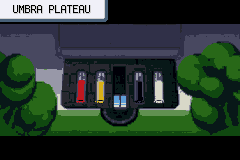
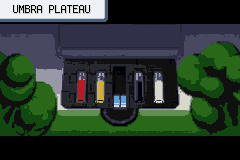
T-456: the REVIEW BOARD's name card BUILT (engine 64d79bbf4); seed C with the hall neutral
gbapreviews: `neutral` gives up median cut's darkest green-cast colour for a neutral near-black (the hall's front
read faintly green; the trees lose that shade); review_board in LANDMARK_APPROVED; --write makes a NEW card's folder
and its -num_tiles rule (new_rule, in name order), and skips a new card only while the engine has no entry. The
draft requantized from the same painting (316 tiles). Fixed: light_palettes was handed the van function since
e8bccc6c, not the vanilla screen.

diff --git a/tools/gbapreviews.py b/tools/gbapreviews.py
@@ -592,7 +592,8 @@ MOTIFS = dict(lights=motif_lights, courses=motif_courses, cable=motif_cable, col
 #  engine until the user approves a card (LANDMARK_APPROVED).
 LANDMARK_APPROVED = {"silph_co", "pokemon_tower", "pokemon_mansion",   # the user, 2026-10-26: build all three as drawn
                      "rocket_hideout",                                 # the user, 2026-10-26: CORPUS HIDEOUT as drawn
-                     "rocket_warehouse"}                               # the user, 2026-10-26: CORPUS WAREHOUSE, candidate B
+                     "rocket_warehouse",                               # the user, 2026-10-26: CORPUS WAREHOUSE, candidate B
+                     "review_board"}                                   # the user, 2026-10-26 (T-456): seed C, the hall neutral
 LANDMARK_DRAWINGS = os.path.join(ROOT, "gfx", "drafts", "landmarks")
 GREYS = [(40, 40, 46), (72, 72, 80), (108, 108, 116), (148, 148, 156), (188, 188, 194), (222, 222, 226)]
 LANDMARK = {
@@ -666,8 +667,8 @@ LANDMARK = {
     #  and laid in seen from below. The four vessels are the only colour: after the painting the fluids and the kept
     #  door are laid back crisp (post_vessels), and "force" gives the red, the yellow, the pale, the door's blue, the
     #  black fluid and the hall's own stone (46,44,54) an index each -- without the last two, median cut shared the
-    #  trees' dark greens with the hall and tinted it, and vessel III went green. DRAFT: not in LANDMARK_APPROVED,
-    #  and the engine has no entry to write it into until the plan in T-456 is applied (--write skips a "new" card).
+    #  trees' dark greens with the hall and tinted it, and vessel III went green. BUILT (engine 64d79bbf4): the
+    #  engine has its entry now (MPS_INDIGO_PLATEAU); --write skips a "new" card only while the engine has none.
     "review_board": dict(
         source="review_board", title="the REVIEW BOARD", new=True, mapsec="MAPSEC_INDIGO_PLATEAU",
         mps="MPS_INDIGO_PLATEAU", type="MPS_TYPE_CAVE", banner_from="pokemon_tower", drawn_scene="plateau",
@@ -677,6 +678,10 @@ LANDMARK = {
         grass=[(46, 78, 38), (74, 110, 50), (104, 140, 66)],
         seed=4475, denoise=0.45, post=["vessels"],     # seeds 4473 and 4474 on sheet t456_draft; 4475 picked
         force=[(192, 28, 36), (222, 178, 30), (218, 220, 206), (98, 164, 222), (6, 4, 8), (46, 44, 54)],
+        #  the user (2026-10-26, building seed C): keep the hall neutral -- its front shared the trees' darkest shade
+        #  (a teal-green near-black) and read faintly green; that shade is given up for a neutral near-black, and the
+        #  trees' deepest shadows take it too
+        neutral=(18, 18, 22),
         prompt="looking up at a long low hall of near-black stone under one heavy flat stone slab that overhangs it "
                "like a judges' bench, four small lit alcoves in its front each holding a tall glass vessel of "
                "fluid, red, yellow, black, pale, left to right, a dark doorway in the middle with a small blue door, "
@@ -1217,15 +1222,21 @@ def keep_accents(pic, q, n=15, rounds=3):
     return q
 
 
-def reduce(pic, vpal, accents=False, force=()):
+def reduce(pic, vpal, accents=False, force=(), neutral=None):
     """15 colours into palette 13's indices 1..15 (index 0 vanilla's: BG0 colour 0 is transparent); a painting keeps
     its accents (keep_accents); a colour in force (a landmark's, too few pixels for keep_accents to see: CORPUS's red
-    band) takes an index of its own"""
+    band) takes an index of its own; neutral (T-456) gives up the darkest green-cast colour median cut chose for this
+    grey, so a dark front that shared the trees' deepest shade is neutral and the trees lose that shade"""
     q = pic.quantize(colors=15 - len(force), method=Image.Quantize.MEDIANCUT, dither=Image.Dither.NONE)
     if accents:
         q = keep_accents(pic, q, n=15 - len(force))
-    if force:
-        q = _fixed(pic, [tuple(q.getpalette()[i * 3:i * 3 + 3]) for i in range(15 - len(force))] + list(force))
+    if force or neutral:
+        cols = [tuple(q.getpalette()[i * 3:i * 3 + 3]) for i in range(15 - len(force))]
+        if neutral:
+            green = [c for c in cols if c[1] > c[0] + 8]
+            if green:
+                cols[cols.index(min(green, key=sum))] = tuple(neutral)
+        q = _fixed(pic, cols + list(force))
     qp = (q.getpalette()[:45] + [0] * 45)[:45]                      # a cave of fewer colours leaves the rest unused
     cols = [tuple(qp[i * 3:i * 3 + 3]) for i in range(15)]
     #  to the GBA's 5 bits, as the palette will hold them
@@ -1243,7 +1254,8 @@ def build(folder, sec):
     pic, where = picture(folder, sec)
     if pic is None:
         return None
-    idx, pal13 = reduce(pic, vpal, accents=where.startswith("painted"), force=LANDMARK.get(folder, {}).get("force", ()))
+    c = LANDMARK.get(folder, {})
+    idx, pal13 = reduce(pic, vpal, accents=where.startswith("painted"), force=c.get("force", ()), neutral=c.get("neutral"))
     tiles, seen, m, tpal = [], {}, [0] * 640, []
 
     def add(t, p=14):
@@ -1318,6 +1330,21 @@ def sheet(rows, path, title):
 
 
 # ================================================================== main
+def new_rule(rules, folder, n):
+    """graphics_file_rules.mk with a NEW card's -num_tiles rule (T-456), laid in among the others in name order; a
+    card that has one is left as it is"""
+    if "$(MAPPREVIEWGFXDIR)/%s/tiles.4bpp:" % folder in rules:
+        return rules
+    rule = "$(MAPPREVIEWGFXDIR)/%s/tiles.4bpp: %%.4bpp: %%.png\n\t$(GFX) $< $@ -num_tiles %d -Wnum_tiles\n\n" % (folder, n)
+    at = [(mm.group(1), mm.start()) for mm in re.finditer(r"^\$\(MAPPREVIEWGFXDIR\)/(\w+)/tiles\.4bpp:", rules, re.M)]
+    after = [i for f, i in at if f > folder]
+    if after:
+        return rules[:after[0]] + rule + rules[after[0]:]
+    last = at[-1][1]
+    end = rules.index("\n\n", last) + 2
+    return rules[:end] + rule + rules[end:]
+
+
 def entry(by_folder, folder):
     """(MPS key, MAPSEC, type) of a card: sMapPreviewScreenData's, or a NEW card's own (T-456)"""
     c = LANDMARK.get(folder, {})
@@ -1372,9 +1399,8 @@ def main():
     for folder in (LANDMARK if A.landmarks else BATCH_E):
         if A.only and folder not in A.only:
             continue
-        if A.write and LANDMARK.get(folder, {}).get("new"):
-            print("  %-17s a NEW card: the engine has no sMapPreviewScreenData entry for it yet (T-456's plan): "
-                  "not written" % folder)
+        if A.write and LANDMARK.get(folder, {}).get("new") and folder not in by_folder and not A.draft:
+            print("  %-17s a NEW card: the engine has no sMapPreviewScreenData entry for it yet: not written" % folder)
             continue
         if A.landmarks and A.write and folder not in LANDMARK_APPROVED and not A.draft:
             print("  %-17s not approved (LANDMARK_APPROVED): not written" % folder)
@@ -1398,7 +1424,7 @@ def main():
                  "tiles: %d (vanilla %d; must stay < 450)" % (len(tiles), len(vt)),
                  "palette 13: 15 colours + vanilla's 0", "palette 14, letterbox, banner: vanilla's"]
         painted = where.startswith("painted")
-        lights = light_palettes(pal[:16], dra, van) if folder == "altering_cave" and painted else None
+        lights = light_palettes(pal[:16], dra, van_) if folder == "altering_cave" and painted else None
         if lights:
             notes += ["", "OTHER CAVE: one set of tiles, four", "palettes 13 (teal, AMBER, CHRYSOPRASE,",
                       "ROSE QUARTZ) -- the rows below. The", "engine lays the coming visit's light",
@@ -1424,11 +1450,12 @@ def main():
                       open(os.path.join(d, "draft.json"), "w"), indent=1)
         if A.write and (not A.landmarks or folder in LANDMARK_APPROVED):
             d = os.path.join(MPS, folder)
+            os.makedirs(d, exist_ok=True)                                # a NEW card's folder (T-456)
             tiles_png(png, pal, os.path.join(d, "tiles.png"))
             open(os.path.join(d, "tilemap.bin"), "wb").write(struct.pack("<640H", *m))
             for n, lp in list(enumerate(lights or []))[1:]:          # OTHER CAVE: map_preview_screen.c INCBINs these
                 write_pal(lp, os.path.join(d, "light%d.pal" % n))
-            rules = open(RULES).read()
+            rules = new_rule(open(RULES).read(), folder, len(tiles))
             rules = re.sub(r"(\$\(MAPPREVIEWGFXDIR\)/%s/tiles\.4bpp: %%\.4bpp: %%\.png\n\t\$\(GFX\) \$< \$@ -num_tiles )\d+"
                            % folder, lambda mm: mm.group(1) + str(len(tiles)), rules)
             open(RULES, "w").write(rules)

diff --git a/docs/TODO.md b/docs/TODO.md
@@ -339,7 +339,7 @@ was one `git log -S` away.*
 | **T-447** | **The landmarks get art of their own, drawn from the story** (*the user, 2026-10-24: "especially for key buildings though (like scorn solutions) we want to make the art our own, not just tweak, so we should look at the story and infer from that"*). T-438's passes keep vanilla's silhouettes and retint them; the buildings the story turns on (SCORN SOLUTIONS, CORPUS's tower, DAEMON TOWER, the MANSION, CRYSTAL's lab, the BENCHMARKs, the GAME CORNER, ERRATA, KEEPALIVE PLANT, the REVIEW BOARD, USER TOWER ...) need designs inferred from the bible. **Job**: a landmarks plan (story basis + a 512 concept per building, footprint and palette limits) for the user's approval, then redraw each inside its footprint; landmarks are held out of T-438's leftover batches. **Planned (DAEMONS `6db593e4`; docs/private/plan-landmarks-2026-10-24.md). The user (2026-10-24): SCORN SOLUTIONS drawn as CRYSTAL's lab's sister, then rebranded (gold leaf, blinds, the roof ruled like a form, an intake slot; the only red the new owner's); the MANSION redesigned in its 7x4 footprint (replaces batch H's ash roof); CORPUS's floor plate seen through a glass lobby, no words; built two at a time, a sheet and a yes before each pair -- SCORN SOLUTIONS + the MANSION first, then CORPUS's tower. Still to ask, with their pairs: DAEMON TOWER, REVIEW BOARD, USER TOWER, THE ANNEX.* **SCORN SOLUTIONS + the MANSION drafted (DAEMONS `ee34966e`, tools/gbalandmarks.py; 91 of 117 tiles). The user (2026-10-24): SCORN's door a plain steel door with the procedure's red light; the roof form as fewer, bigger boxes so the tick reads at 1x; the MANSION one big stain rising from the cave-in and the racks curved like a rib cage; revise, show the sheet once more at 1x, then build on a yes.* **Revised (DAEMONS `e559d4eb`); the user (2026-10-24): build it.** **The first pair BUILT (engine `cf4454491`, 2026-10-24)**: `gbalandmarks.py --write --approved` (blocks 134->192, rows 10 and 11, byte-identical to the draft) then `gbadoors.py --write --approved` (the lab door's frames from the steel door, sDoorAnimPalettes_CinnabarLab 3 -> 10); a second write of each a no-op (gbalandmarks' census now ignores the unused RS Safari layouts' block ids past vanilla's count, which read as its own blocks after a write and made the rerun refuse); gbatowns, gbaislandsigns, gbasandbar and gbafounder write nothing new. Walked in the theatre: both buildings in game, SCORN's steel door swinging open as the player walks in, the MANSION's door into 1F. Next: CORPUS's tower. **The user (2026-10-24, evening): DAEMON TOWER dots and niches (dense dots at the foot, sparse at the top; seven bands of niches); USER TOWER progress bars (each floor a band with a teal bar); THE ANNEX a flat survey disc (no collision change). The REVIEW BOARD's colour is still to ask.* **Pair 2 drafted (DAEMONS `84ae38f3`) as flat slabs; the user (2026-10-24): redraw both with 3/4 depth (side faces, an inset silhouette with ground at the sides, rounded/stepped edges); DAEMON TOWER's niches arched into the dots (no shelves) and its top a dotted dome; CORPUS's door redrawn so the plate continues through its glass (new silph_co door frames).* **Pair 2 redrawn with depth (DAEMONS `a219855f`); the user (2026-10-25): build both. The REVIEW BOARD's only colour: four vessels of fluid (red, yellow, black, pale) in seat order I-IV.* **Pair 2 BUILT (engine `27e785a73`, 2026-10-25)**: `gbalandmarks.py --write --approved` (corpus_tower, daemon_tower added to APPROVED: saffron_city row 9, 55 tiles, blocks 276->282, the tower and the crossings' copy; lavender_town row 7, 82 tiles, LavenderTown rows 0..6 and ROUTE 10 rows 72..79) then `gbadoors.py --write --approved` (DOORS["silph_co"]["redrawn"] = CORPUS_DOOR without its block: silph_co.png from the glass door, sDoorAnimPalettes_SilphCo 3 -> 9); gbadoors' report exits 0, a second write of both a no-op, gbatowns redraws nothing, every PNG 4-bit 16-colour. Walked in the theatre (`tools/routes/landmarks-2.json`, goto, holds and shots): CORPUS's tower at 1x, its glass door (the plate through it) sliding open as the player walks in, into SilphCo_1F; DAEMON TOWER grey and in colour (sDaemonsHalftoneInColour poked), its dotted dome on ROUTE 10, walked into PokemonTower_1F. Found: the map-name cards on entering still show vanilla's SILPH CO. and POKEMON TOWER pictures. Next: ask DAEMON TOWER's neighbours -- the REVIEW BOARD (its colour decided), USER TOWER, THE ANNEX.* **Pair 3 drafted (DAEMONS `64a0205c`); the user (2026-10-25): build with tweaks -- the REVIEW BOARD's pale porch redrawn in dark stone (the shared door kept); four faint seat places inlaid along its slab; ERRATA's erratum (struck line, red caret) moved onto the big slate roof where it reads at 1x (an echo on the pediment if tiles allow); a quick 1x check, then build.* **Tweaked (DAEMONS `9283f477`); the user (2026-10-25): build pair 3 -- and scramble ERRATA's chalk line so no word can be picked out (at 3x it read 'why'), same tiles.* **Pair 3 BUILT (engine `2332f9e44`, 2026-10-26)**: *ERRATA's chalk first scrambled -- each word's span kept in place and width, drawn as one pen path of chalk (ERRATA_SCRAWL, steps of at most two, three pen lifts above the x-height) instead of letter-like shapes, so no word reads at 1x or 3x; only 8 tiles' pixels changed, still 123 of 123 slots. Then `gbalandmarks.py --write --approved` (review_board, errata added to APPROVED): UMBRA rows 7 and 8, 112 tiles, blocks 176->197, -num_tiles 247->300; SLATE row 12, 123 tiles (0 to spare), blocks 146->186, -num_tiles 312->376. Byte-identical to the draft; a second write a no-op; every PNG 4-bit 16-colour; pairs 1 and 2 untouched; gbadoors: the engine matches its write exactly (both doors kept, no frames); gbatowns writes nothing new (its census now counts ERRATA as ours: SLATE 12% -> 3% vanilla). firered_debug built (exit 0). Route `tools/routes/landmarks-3.json` (goto and shots, walking into each door) written and checked, not yet played: the theatre did not answer.* |
 | ~~**T-446**~~ | ~~**Four elevator doors would redraw lit if gbadoors ran with --approved**~~ (*found 2026-10-24 by the batch F build*): `gbadoors.py --write --approved` would redraw the HIDEOUT, SILPH and TRAINER TOWER lobby and roof elevator doors with the cab light instead of dark -- old drift (probably batch D, engine 80f4553d8), present on a clean HEAD; check_generators misses it because it runs gbadoors without --approved. The game is unchanged (the four files were reverted). **Job**: find which side is right, fix the tool or the files, and record or clear the drift; make check_generators run gbadoors' approved set too. **Also (2026-10-24, the landmark build): `gbadoors --write --approved` would now redraw `safari_zone.png` (420 pixels re-indexed after batch H moved LURID's row 9), so the SAFARI door's opening frames may not match its new closed colours -- check in the theatre and fix with the elevator doors.* | ***Closed (engine `4c307ea22`; the tool in this commit).*** **The files were right; the tool had drifted.** *Filmed in the theatre (all five opening, or the lobby lift opening as you leave it -- its counter keeps you out): no jump outside the leaf, a slate room behind each. The tool picks the room as the row's DARKEST colour, and later palette passes moved which entry that is -- batch D's timber brown (building row 2, entry 9) and batch H's LURID magenta (fuchsia row 9, entry 10) went darker than the approved slate (entry 1), so a write would have swapped room and floor line. Not lit: brown and magenta.* **Fix**: `DOORS` pins those five rooms by palette index (`room=(void, floor, sill)`, the entries batch A drew), so a recolour moves frames and closed block together. `safari_zone.png`'s pixels were already right; only its embedded palette was stale, rewritten (ROM unchanged). **Caught from now on**: gbadoors' report compares the engine with its approved write and exits 1 on any difference, and check_generators' `--writes` runs it with `--approved`. |
 | **T-445** | **The cave preview screens are still vanilla** (*the user, 2026-10-23, from batch E*): on entering a cave the game shows a preview picture (src/map_preview_screen.c; graphics/map_preview/: MT MOON, ROCK TUNNEL, DIGLETT, SEAFOAM, VICTORY ROAD, POWER PLANT, MT EMBER, DOTTED HOLE, ICEFALL, ALTERING CAVE, ...). Redraw each from the new cave art (T-438 batch E) with the DAEMONS name, 16-colour, on a contact sheet before building. ***Drafted 2026-10-23*** (`tools/gbapreviews.py`; drafts `gfx/drafts/t445/<cave>/`, sheets t445_previews_1/2): *21 pictures behind 29 MPS entries. The NAME is not in the picture -- the game prints GetMapName (our names) in a window over vanilla's baked banner, so every preview already says DEADSTACK etc.; none is wider than the 104px window. The eleven batch E caves are drafted (DEADSTACK, THE WRONG WAY, UMBRAL ASCENT, TAPPOINT'S CAVE, THE BLACKOUT, OTHER CAVE, KEEPALIVE PLANT, GLAUCOUS ISLES, STILLFALL CAVE, MT. SMOULDER, THE DOTS): a 15x7-block window of the cave's own maps rendered with the built tilesets (THE WRONG WAY's 11x11 rooms an 8x4 window doubled), 15 colours in palette 13, the letterbox, banner and palette 14 vanilla's; 79-129 tiles each (the name window starts at tile 450). Not drafted: DOLDRUM CAVE (waits on the user), the TANOBY chambers (batch G), and the forests, tower, mansion, SILPH, hideout, warehouse and SAFARI (not caves). `--write --approved` writes tiles.png, tilemap.bin and the -num_tiles line; it refuses without --approved.* **Questions for the user**: *a top-down view of the cave (as drafted) or a painted entrance like vanilla's; and should OTHER CAVE's preview follow its four lights (engine code) or keep the teal.* **The user's answers (2026-10-23)**: *painted entrances, not top-down -- the sprite server paints each cave's mouth at 512 from these views, in each cave's colours; OTHER CAVE's preview follows its four lights (engine code); the non-cave previews come with their own batches.* **Painted (DAEMONS `d650adfd`), the user (2026-10-23): build all eleven, fixing STILLFALL's mouth, THE DOTS as six-dot cells and SMOULDER's snowy peak first; DEADSTACK and THE WRONG WAY alike is right.* ***BUILT 2026-10-23 (engine `d13cda5e9`)***: *STILLFALL CAVE repainted with a clear mouth beside the frozen fall (a ragged black opening laid into the start image, `motif_mouth`, seed 4455); THE DOTS' dots now six-dot braille cells, 2x3 with gaps, pressed into the painting at the picture's own size after the server (`post_braille` -- the server smoothed a dot that small away or swelled it to a stud; seed 4451, 0.40); MT. SMOULDER's far peak graded charcoal ash with snow in the negative prompt (seed 4451). All eleven written with `--write --approved`; OTHER CAVE's light1..3.pal written by the tool too, INCBIN'd in src/map_preview_screen.c and laid over palette 13 by MapPreview_LoadGfx as VarGet(VAR_OTHER_CAVE_LIGHT) % 4 -- the preview runs in CB2_DoChangeMap, before CB2_LoadMap2's LoadMapFromWarp runs the ON_TRANSITION that steps the count. Found on the way: `vanilla()` read the engine's own graphics/map_preview/ files, so after one --write every later run graded and lit from OUR picture (the light palettes moved, tile counts by one) -- it now reads pret's from upstream/master and the write is idempotent; tiles.png carries exactly two 16-colour palettes (13, 14), never a 256-entry PLTE. Theatre `tools/routes/t445-previews.json`: each cave entered on foot from outside, its preview filmed through the fade, then inside; OTHER CAVE five times in a row from OUTCAST ISLAND -- teal, amber, chrysoprase, rose quartz, teal again, each preview's light matching the cave inside. Sheets t445b_fixes, t445b_drafts_1..3, t445b_theatre_1..3.* Still open here: DOLDRUM CAVE's (waits on the user, T-251) and the TANOBY chambers' (batch G). **Also (2026-10-25, found building T-447 pair 2): the name card on entering still shows vanilla's pictures for the landmarks -- FOUNDRY CO. over SILPH CO.'s, DAEMON TOWER over POKEMON TOWER's; paint them from the new buildings (and SCORN SOLUTIONS' / the MANSION's if they have cards).* **The landmarks' cards drafted (2026-10-26, `gbapreviews.py --landmarks`; drafts `gfx/drafts/t445/{silph_co,pokemon_tower,pokemon_mansion}/`, sheets t445n_*)**: *three of T-447's landmarks have a card -- CORPUS's tower (FOUNDRY CO., silph_co), DAEMON TOWER (pokemon_tower), the MANSION (pokemon_mansion, vanilla's is its hall inside); SCORN SOLUTIONS, the REVIEW BOARD and ERRATA have none (no sMapPreviewScreenData entry); CORPUS HIDEOUT and CORPUS WAREHOUSE have cards but no T-447 art. Each start image is vanilla's card graded into the town's colours with T-447's building as built (checked pixel for pixel against the built map) laid in seen from below, softened, painted on the sprite server at 0.45-0.50 (seeds 4464/4467/4468); CORPUS's red band laid back after the painting and given its own palette index. 295/350/315 tiles (< 450), 15 colours in palette 13, palette 14 and the banner vanilla's; ROM about +1.1 KB compressed. Nothing written: `LANDMARK_APPROVED` is empty and --write refuses the rest. Waits on the user.* **The user (2026-10-26, on the draft sheet): build all three name cards as drawn (FOUNDRY CO., DAEMON TOWER grey with its orange flames, the MANSION's burned outside; CORPUS's red band laid back crisp, the default); draft CORPUS HIDEOUT's and the WAREHOUSE's cards now from the current maps. The REVIEW BOARD's new card is T-456.* ***The landmarks' cards BUILT 2026-10-26 (engine `3e7dd26bc`)***: *the three added to `LANDMARK_APPROVED` and written with `--landmarks --write --approved` -- FOUNDRY CO. 295 tiles (red band crisp), DAEMON TOWER 350 (grey, orange flames), the MANSION 315 (burned outside); the written tiles.png and tilemap.bin byte-identical to the drafts, a second write a no-op, the eleven cave cards untouched, each tiles.png exactly 32 colours (palettes 13, 14), report mode writes nothing; firered_debug builds (exit 0). ROM +1,112 bytes compressed (18,704 against vanilla's 17,592). Sheet t445b_cards, decoded from the built .lz files. Theatre not filmed (no answer within a minute).* **CORPUS HIDEOUT's and CORPUS WAREHOUSE's cards drafted (2026-10-26, `--landmarks`, drafts `gfx/drafts/t445/{rocket_hideout,rocket_warehouse}/`, sheet t445h_drafts)**: *both are vanilla's rooms inside, so the start image is vanilla's room graded into the SilphCo tileset's colours both maps use now (teal wall, slate, olive floor, white, wood; `INTERIOR_RAMPS`), the ROCKET R taken off the wall, the WAREHOUSE's spin tiles cut from the built map and laid on its floor; painted at 0.45 (seeds 4470/4471). 265 and 286 tiles (vanilla 194/234). Not in LANDMARK_APPROVED: waits on the user.* **The user (2026-10-26, on the HIDEOUT/WAREHOUSE sheet): build CORPUS HIDEOUT's card as drawn; repaint the WAREHOUSE's with a bigger spin-tile floor that reads at 1x; leave the wall blank where vanilla's R was; film the built cards in the theatre at the next push.* ***CORPUS HIDEOUT's card BUILT 2026-10-26 (engine `4f24d5d37`)***: *`rocket_hideout` added to `LANDMARK_APPROVED` and written with `--landmarks --write --approved` -- 265 tiles; tiles.png and tilemap.bin byte-identical to the draft, a second write a no-op, every other map_preview file byte-identical (hashed before and after), tiles.png exactly 32 colours, report mode writes nothing; firered_debug builds (exit 0) and the card decoded from the built .lz files equals the draft pixel for pixel (sheet t445b_hideout). ROM +1,316 bytes compressed (3,928 against vanilla's 2,612).* **CORPUS WAREHOUSE's card REPAINTED (draft, 2026-10-26)**: *the first draft's floor was a 12px strip of ten tiles a row and the arrows washed out; the room is now lifted 12 rows (its ceiling strip goes) and the floor laid 26px deep, eight tiles a row at the foot (`lift`, `floor_tiles`), painted at 0.40 (seed 4472): the arrows read at 1x, 288 tiles, nothing forced into the palette, the wall blank where the R was. `interior_floor` now takes a block as a spin tile only where green is a real share of it (it had cut a computer and a door in by their LEDs). Five candidates on sheet t445w_repaint: A 0.35, B 0.40 (the draft), and C/D/E with `post=["spinfloor"]`, which lays the spin tiles back crisp after the painting (as CORPUS's red band) -- crisper, but they read pasted on and the two forced greens cost the room colours. Not in LANDMARK_APPROVED: waits on the user.* **The user (2026-10-26): build the WAREHOUSE's repaint, candidate B (DAEMONS b71d2260).* ***CORPUS WAREHOUSE's card BUILT 2026-10-26 (engine `49eb0d574`)***: *`rocket_warehouse` added to `LANDMARK_APPROVED` and written with `--landmarks --write --approved` -- 288 tiles (vanilla 234); tiles.png and tilemap.bin byte-identical to the draft, a second write a no-op, every other map_preview file byte-identical (hashed before and after), tiles.png exactly 32 colours (palette 14 vanilla's), report mode writes nothing; firered_debug builds (exit 0) and the card decoded from the ROM equals the draft pixel for pixel but for the name, which the game prints (sheet t445b_warehouse). ROM +1,840 bytes compressed (4,884 against vanilla's 3,044). Still to do: film both CORPUS cards in the theatre at the next push.* |
-| **T-456** | **The REVIEW BOARD gets a name card** (*the user, 2026-10-26*): UMBRA PLATEAU has no entry in `sMapPreviewScreenData`, so entering shows no picture. Add the card (a new entry and its mapsec hookup in src/map_preview_screen.c) with art painted from T-447 pair 3's hall, by `tools/gbapreviews.py --landmarks`, drafted on a sheet first. **Drafted (DAEMONS e8bccc6c); the user (2026-10-26): build seed C (4475); CAVE style (full screen, then fade, like FOUNDRY CO.); the card on GOTO/teleport/whiteout only, the ROUTE 23 walk-up keeps the name popup (no new crossing code); keep the hall neutral (give up one tree shade so the green cast goes); add the credits guard (no card at the Hall of Fame's warp).* | |
+| **T-456** | **The REVIEW BOARD gets a name card** (*the user, 2026-10-26*): UMBRA PLATEAU has no entry in `sMapPreviewScreenData`, so entering shows no picture. Add the card (a new entry and its mapsec hookup in src/map_preview_screen.c) with art painted from T-447 pair 3's hall, by `tools/gbapreviews.py --landmarks`, drafted on a sheet first. **Drafted (DAEMONS e8bccc6c); the user (2026-10-26): build seed C (4475); CAVE style (full screen, then fade, like FOUNDRY CO.); the card on GOTO/teleport/whiteout only, the ROUTE 23 walk-up keeps the name popup (no new crossing code); keep the hall neutral (give up one tree shade so the green cast goes); add the credits guard (no card at the Hall of Fame's warp).* ***BUILT 2026-10-26 (engine `64d79bbf4`)***: *seed C requantized with the hall neutral (`neutral`: median cut's darkest green-cast colour, the teal-green near-black the hall's front shared with the trees, given up for a neutral near-black; the trees' deepest shadows take it too) -- 316 tiles; `review_board` added to `LANDMARK_APPROVED` and written with `--landmarks --write --approved`, which now makes a NEW card's folder and its -num_tiles rule (`new_rule`, in name order). Engine: `MPS_INDIGO_PLATEAU` before `MPS_COUNT`, its INCBINs and table entry (MAPSEC_INDIGO_PLATEAU, MPS_TYPE_CAVE, FLAG_WORLD_MAP_INDIGO_PLATEAU_EXTERIOR); `MapHasPreviewScreen_HandleQLState2` returns FALSE for UMBRA while FLAG_DONT_SHOW_MAP_NAME_POPUP is set (the Hall of Fame sets it before its DoWarp into the credits). No crossing code: ROUTE 23's walk-up is a map connection, which never runs a preview. Written files equal the draft, a second write a no-op, every other map_preview file byte-identical, tiles.png exactly 32 colours, report mode writes nothing; check_lexicon and check_reach exit 0; firered_debug and leafgreen_debug exit 0, and the card decoded from both ROMs equals the draft pixel for pixel. ROM +4,288 bytes (palette 64, tiles 3,368 and tilemap 856 compressed). Sheet t456_built (built card 1x/3x, the hall before/after). Also fixed: since e8bccc6c the OTHER CAVE lights were handed the `van` function instead of the vanilla screen. Theatre not filmed (no answer).* | |
 | **T-457** | **The second joining: CRYSTAL's work in THE MARGINS, and a merger that holds both** (*the user, 2026-10-26, decided in a design session; private notes in docs/private/draft-full-circle-2026-10-23.md*): the first merger is Brazen's (CLEAR LABORATORY under gold leaf); this is its rhyme. **Seeded early, pays off late**: CELIO's network in THE MARGINS carries signals in Act 2, and after THE ANNEX CRYSTAL takes it up as her own work. Four pieces, no new maps: (1) a receiver on her lab desk, picking up one daemon far away, doing fine -- she does not explain it; (2) two PROSPECTUS papers, undated: her new work, named from the margins' own words (name to choose), then the joining -- her INDEX and CELIO's machine, two names side by side, neither on top; (3) Brazen's score board (30, 30, 30, 94) gives way after the GLOBAL INDEX to a posting with no scores; (4) the CHECKPOINT keepers get a line that shows they listen to someone not in the room. **CRYSTAL hands over the GLOBAL INDEX almost silently** (one line about something else). SCORN is unchanged in Brazen; the Quicksilver gold keeps lifting and nobody repaints it. Nobody is rescued and nobody says what it means (4.34, craft rule 1); tending, never medical (craft rule 3). **The user is writing some of the words**; every new line DRAFT. Bible 4.37 (v11.311). **MECHANICS BUILT (engine `cc13f6633`, 2026-10-26), every word a DRAFT placeholder:** one flag, `FLAG_SECOND_JOINING` (DAEMONS block +0x3EE), set on map load once CRYSTAL is home from THE ANNEX *and* the GLOBAL INDEX is held (`event_data.c` DaemonsSecondJoining; `FLAG_HIDE_CRYSTAL_RECEIVER` +0x3EF follows it). (seed) a NETWORK NOTICE beside CELIO's machine, ONE ISLAND CHECKPOINT 1F (18,4), two states on `FLAG_SYS_CAN_LINK_WITH_RS`; (1) the receiver, an object on her desk (5,1) wearing the INDEX unit's sprite (no new art); (2) the two papers on the shelf beside the INDEX unit (9,1), filed under PROSPECTUS -- keyed **PROSPECTUS_7 and _8** in `tools/gbadocs.py` (flags 0x33F, 0x340; appended last, since a document's flag is its place in the list) because school.md's PROSPECTUS 4-6 are taken; (3) BRAZEN's board (13,25) shows a posting with no scores (and still files PROSPECTUS 2 behind it if never read); (4) any CHECKPOINT keeper, one heal in three; (handover) CRYSTAL gives the GLOBAL INDEX in one line when she is home before it -- *in play the aide still gives it while she is away (CELIO's RUBY waits on it, so it always comes before THE ANNEX); the user to say whether her line moves to the aide's handover*. **Placeholders to replace**: NETWORK NOTICE (DRAFT) / One half in place. Waiting for the other. / Both halves in place. Carrying signals.; A receiver. It is picking up one daemon, far away, on an island. / It is doing fine. (DRAFT); HER WORK (DRAFT) -- the name of her work; JOINING (DRAFT) -- THE INDEX / CELIO'S MACHINE; CORPUS NOTICE (DRAFT) REVIEWS / Four candidates reviewed. Notes are with each of them.; One moment. Someone on the islands is checking in. / Yes, I hear you. Good to hear from you. (DRAFT); It is raining on the islands, I hear. (DRAFT). Not yet walked in the theatre (it did not answer). **Released v11.311.1. The user (2026-10-26): the aide hands over the GLOBAL INDEX with nothing from CRYSTAL (her line leaves the handover, both paths); her one quiet line (DRAFT, about something else) is spoken when the player finds her at the receiver after THE ANNEX, in the receiver prop's script (the user, asked again in the narrative session: "At the receiver"; bible 4.37, v11.312) -- **built in engine `d656c4b36`**: the receiver's two lines, then hers the first time only (`FLAG_HEARD_CRYSTAL_AT_RECEIVER`, DAEMONS +0x3F0, the game lane's next block 0x3F0-0x3FF), "CRYSTAL: It is raining on the / islands, I hear. (DRAFT)"; her own handover path now gives the item and fanfare alone; keep the papers as PROSPECTUS 7 and 8 (the bible and school.md amended to match -- the narrative session's bible); draw the receiver its own sprite, on a sheet first (drafted 2026-10-26 in `gfx/drafts/t457/`, A indigo and B dark wood, 16x16 in NPC_BLUE; not built -- the user to choose); the keepers stay at one heal in three.* |
 | ~~**T-444**~~ | ~~**The Fame Checker's portraits load 512 bytes of palette**~~ (*found 2026-10-22 by the T-442 fix*): T-177's four portraits are 256-colour PNGs and their palettes load with sizeof(), so they write 512 bytes over sprite palettes -- the same class that blacked out every NPC behind a field banner in v11.309.5. Re-save them 16-colour (pixels unchanged), load exactly one palette, and add a check that fails on any 8bpp/256-colour PNG whose palette is loaded by sizeof (scan graphics/ for >16-colour indexed PNGs feeding OBJ/BG palettes). ***DONE 2026-10-23 (engine `6b1f49ea6`)***: *the four re-saved 4-bit with their 16 colours, pixels unchanged, and loaded at `PLTT_SIZE_4BPP`; `tools/gbachar.py` now saves a portrait whose PNG palette is the one that loads 4-bit. New `tools/check_palettes.py`, run by check_lexicon: every `sizeof()` of a .gbapal in src/ (98 uses of 353 symbols), failing where the source has more than 16 colours but draws only 0..15, or holds more colours than pret's own file; the 11 others over 16 are vanilla's multi-palette screens or our .pal files at vanilla's count. graphics/ also holds 14 more 256-entry PNGs drawing 0..15 (the GUIDE's cover, the twelve ball sprites, the trade and HEARSAY pokeballs, the ghost) -- every one loads exactly 16 colours (SpritePalette, `PLTT_SIZE_4BPP` or a 0x400 buffer), so harmless and left. Checked in the theatre in both editions: all four portraits in colour, the follower and the people coloured after HEARSAY closes; sheets t444_* |
 | ~~**T-443**~~ | ~~**The walked-on grass follows every tint, and shows in winter**~~ (*the user, 2026-10-22, after T-441*): (1) in winter the blades vanish into the white ground -- keep a faint frosted outline a touch darker so walking in grass still reads; (2) the early-game UNDERSTANDINGS fade (T-317) and the grove moods (T-408) tint the ground tiles but not the grass sprite -- tint FLDEFF_PAL_TAG_GENERAL_1 by both the same way T-441 does the season (DaemonsSeasonSpritePalette in fieldmap.c). ***DONE 2026-10-23 (engine `94a71251e`)***: *in winter the grass sprite's shading and outline (row 0 slots 3, 13, 14, 15) move a further step toward a cold frost shadow -- 40, 26, 90 and 90 of 256 toward RGB(12,16,19) -- the fill left the ground's own (DRAFT strength, for the user's eye); `DaemonsGroundSpritePalette` gives the grass the season, the grove's mood and the faded print in DaemonsClarityEntries' order, as it loads and as the field is relit; BLANCHE's pale grass takes the mood and the print; a connection crossed into different light now retints the field effects too. Checked in the theatre (`tools/routes/ground.json`, stops 7-9; CONTEXT's winter in `ground-context.json`): winter on ROUTE 1, ROUTE 24's grove (INWARD), ROUTE 1 with no understanding held; sheets t443_* |
